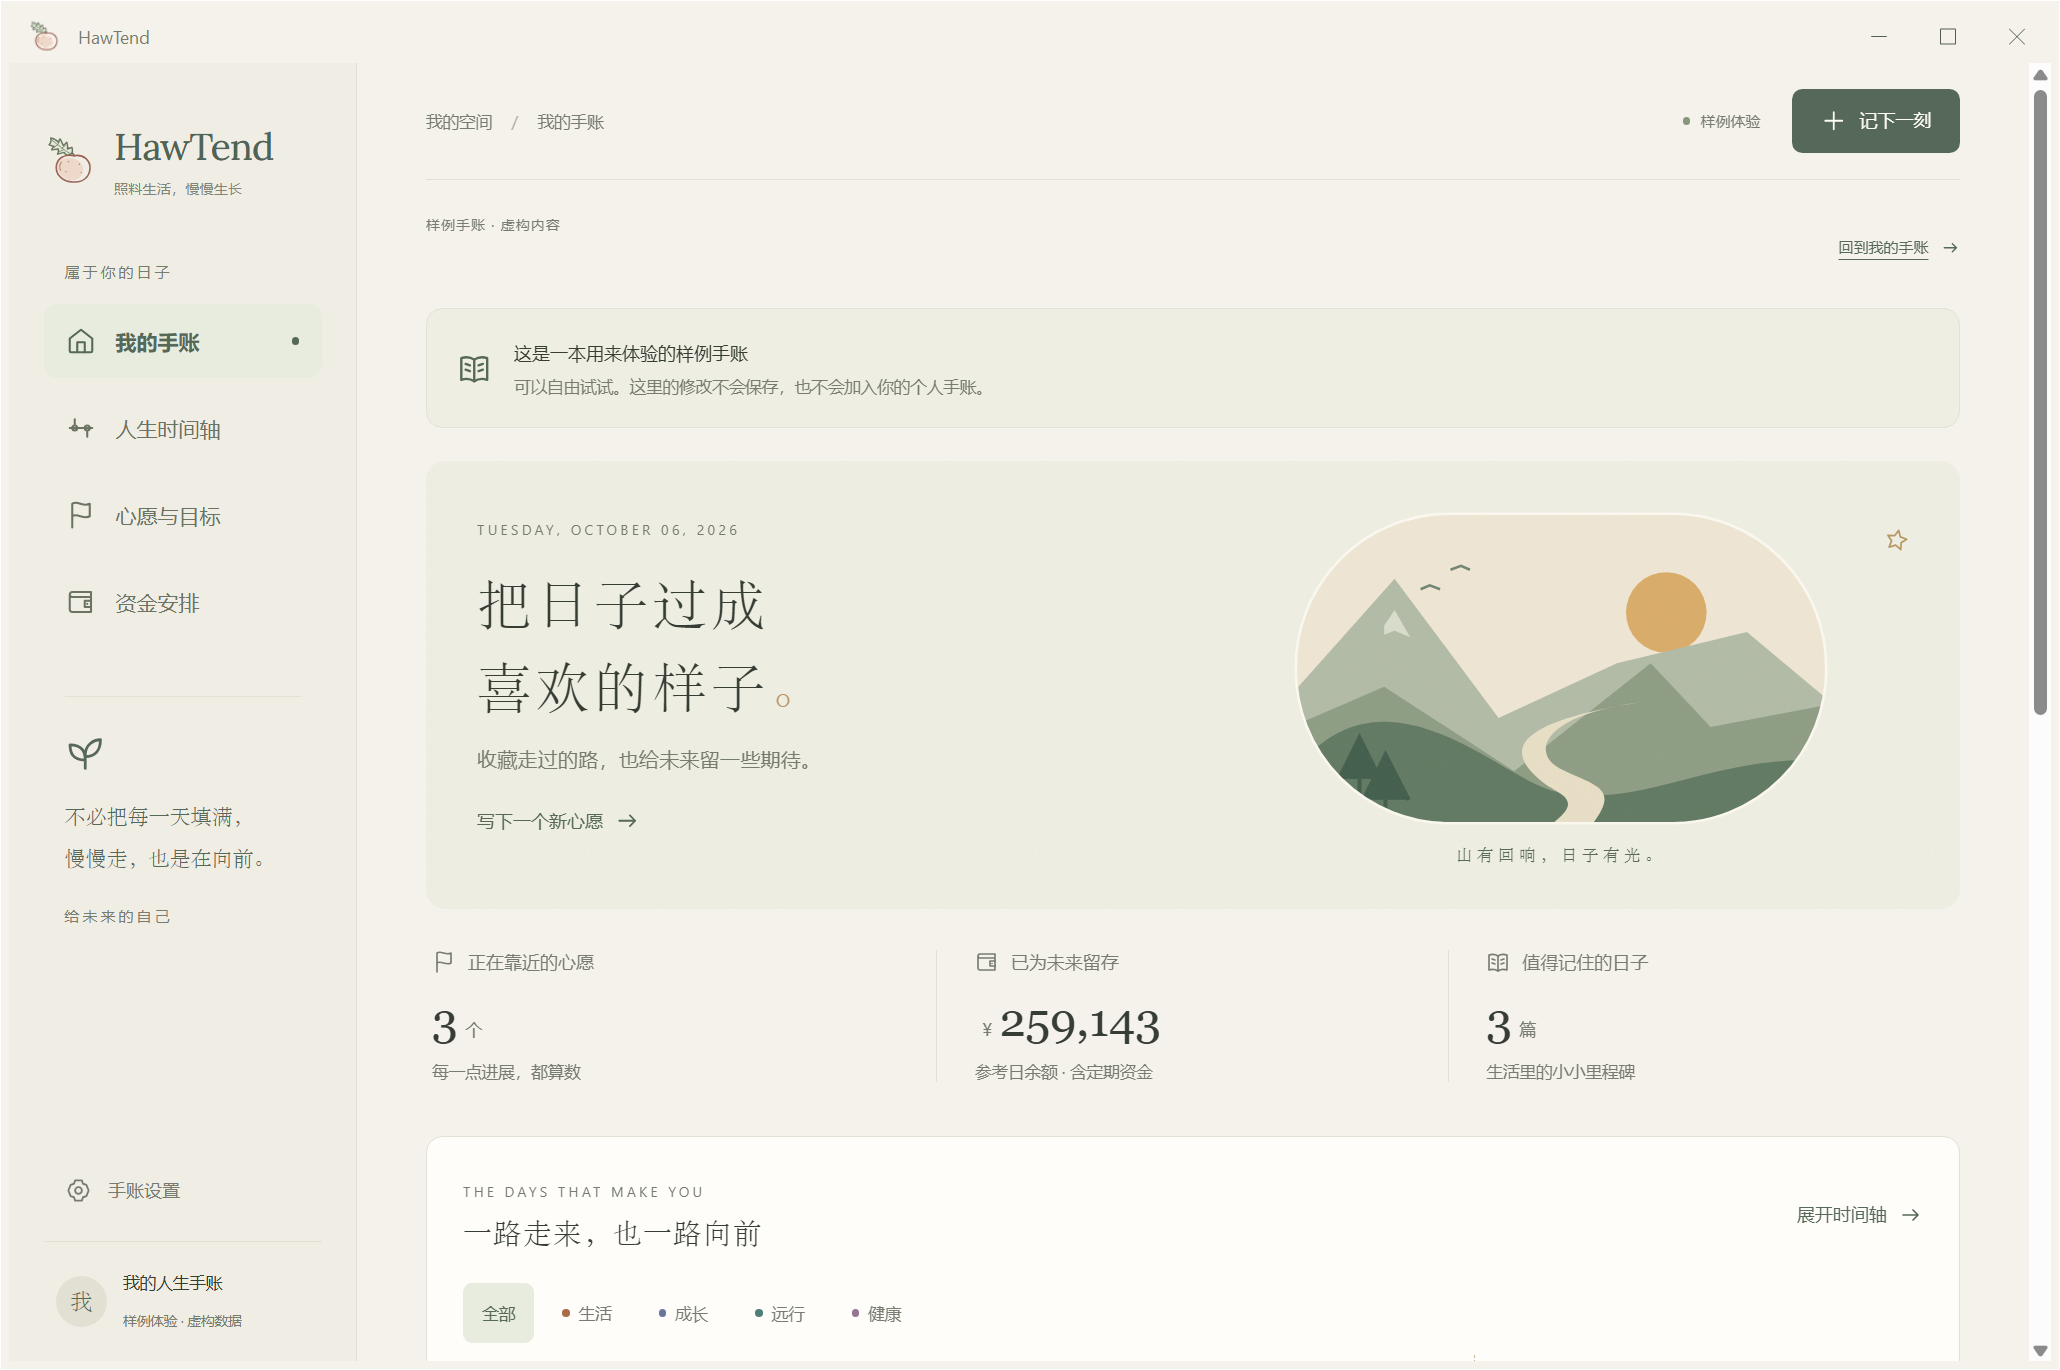
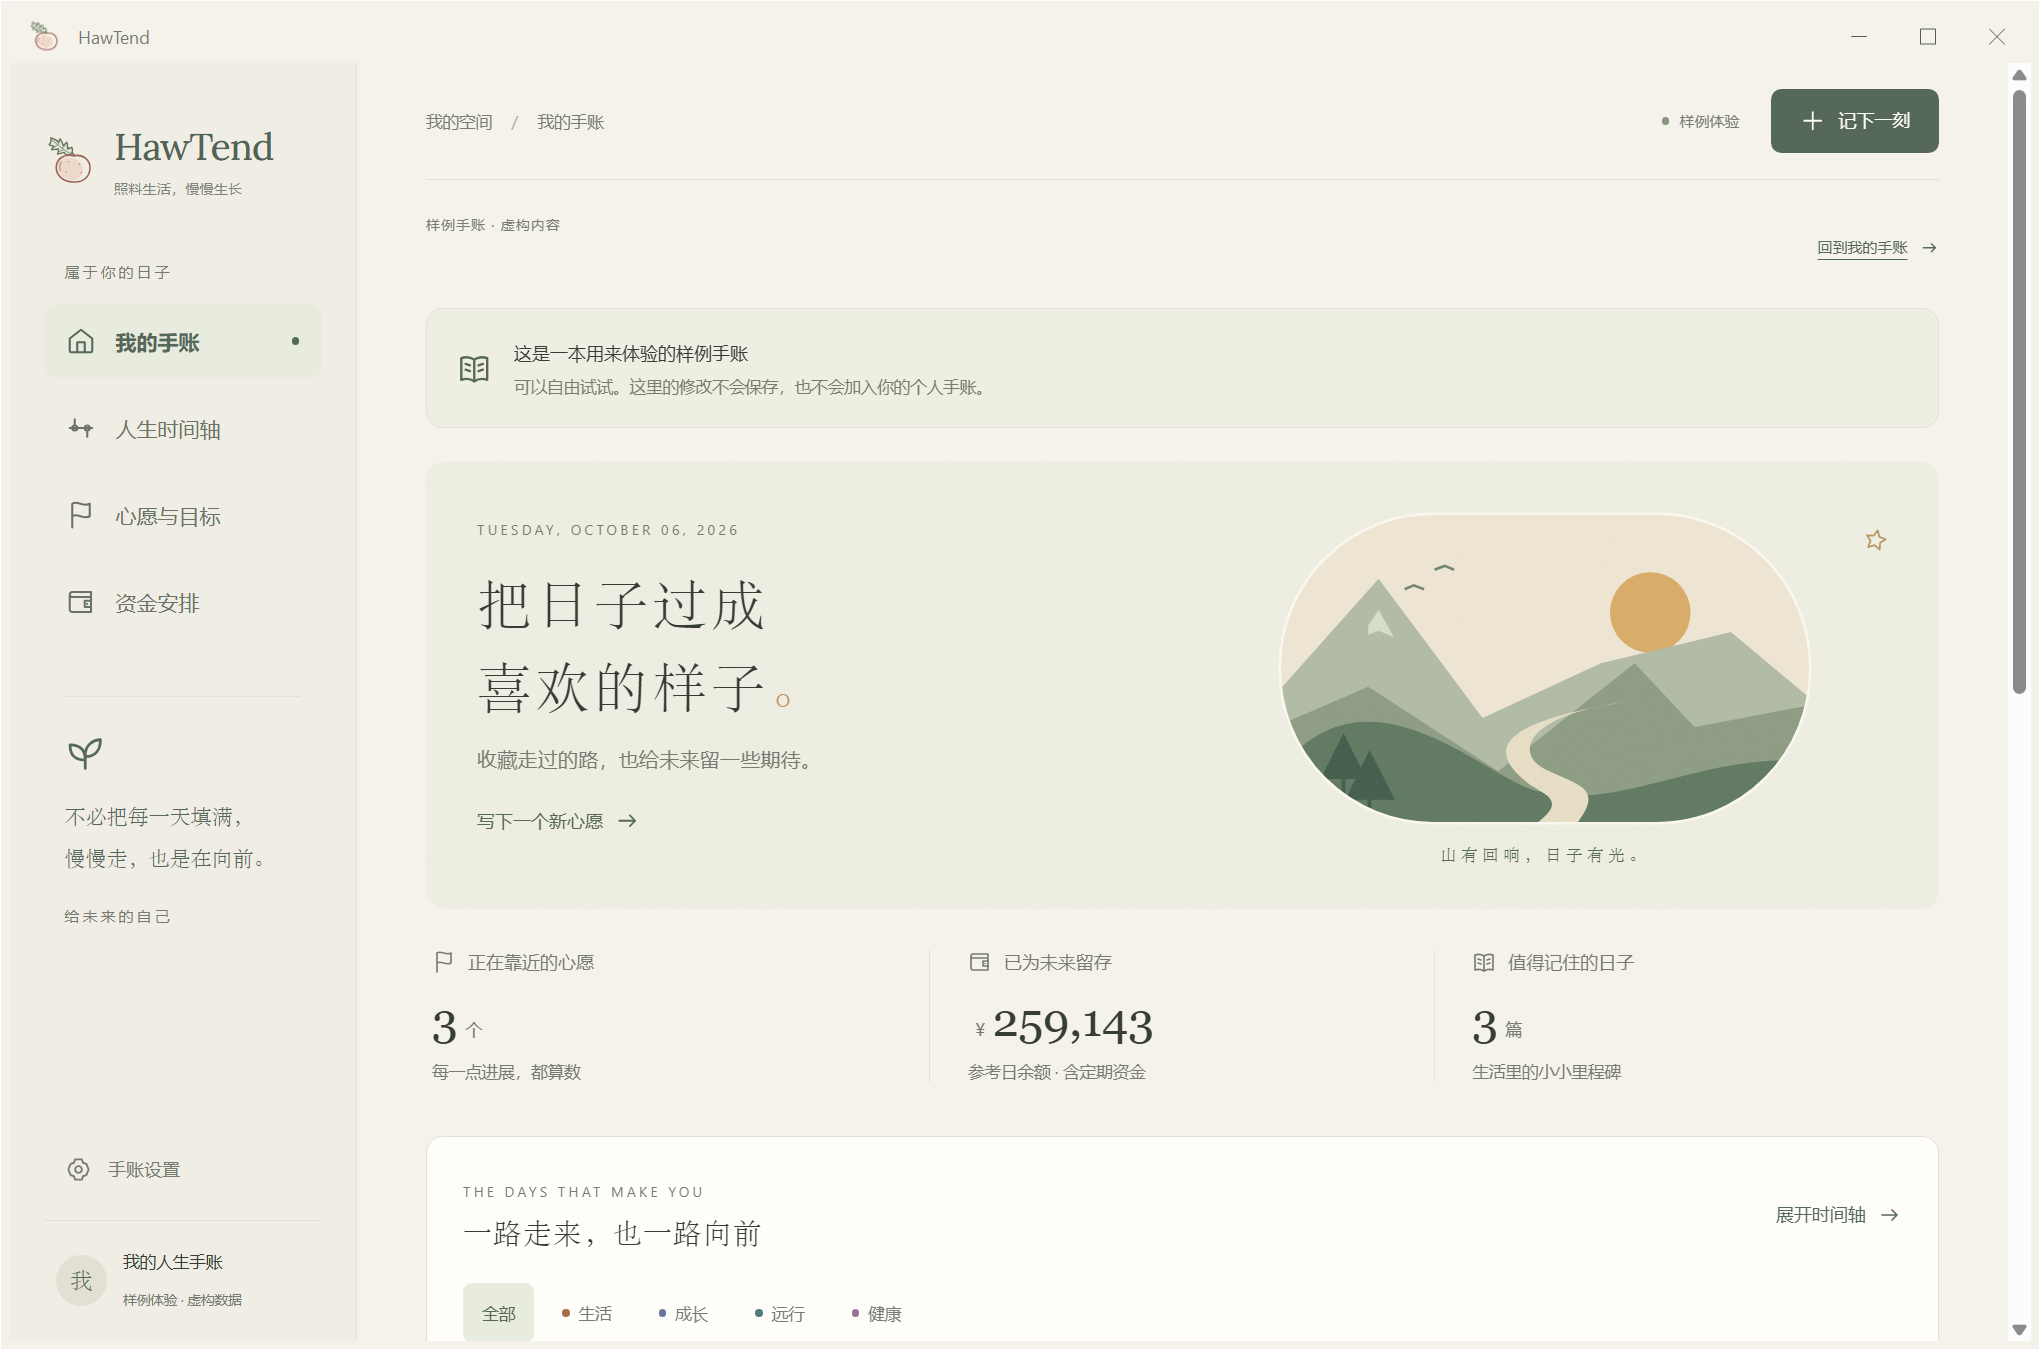
Preserve window bounds when reopening from minimize

diff --git a/windows/DesktopShell.cs b/windows/DesktopShell.cs
@@ -29,6 +29,7 @@ internal sealed class DesktopShell : Form
     private Rectangle normalBounds;
     private FormWindowState previousState = FormWindowState.Normal;
     private bool changingState;
+    private FormWindowState beforeMinimized = FormWindowState.Normal;
 
     internal DesktopShell(string address, string dataFolder, int debugPort, Action openLegacy)
     {
@@ -107,10 +108,16 @@ internal sealed class DesktopShell : Form
     }
     private void ChangeState(FormWindowState next)
     {
+        if (next == FormWindowState.Minimized) beforeMinimized = WindowState;
         if (WindowState == FormWindowState.Normal) normalBounds = Bounds;
         Rectangle restore = normalBounds; changingState = true;
         try { WindowState = next; if (next == FormWindowState.Normal && !restore.IsEmpty) Bounds = restore; }
         finally { changingState = false; previousState = WindowState; LayoutWindow(); }
+    }
+    internal void OpenOrFocus()
+    {
+        if (WindowState == FormWindowState.Minimized) ChangeState(beforeMinimized);
+        DesktopWindows.Focus(Handle);
     }
 
     private async System.Threading.Tasks.Task InitializeView()
@@ -225,6 +232,7 @@ internal sealed class DesktopShell : Form
             int command = m.WParam.ToInt32() & 0xfff0;
             if (command == 0xf030 || command == 0xf020 || command == 0xf120)
             {
+                if (command == 0xf020) beforeMinimized = WindowState;
                 if (WindowState == FormWindowState.Normal) normalBounds = Bounds;
                 Rectangle restore = normalBounds; changingState = true;
                 try { base.WndProc(ref m); if (WindowState == FormWindowState.Normal && !restore.IsEmpty) Bounds = restore; }

diff --git a/windows/HawTend.cs b/windows/HawTend.cs
@@ -167,7 +167,7 @@ internal sealed class DesktopContext : ApplicationContext
     internal void OpenOrFocus()
     {
         if (closing) return;
-        if (shell != null && !shell.IsDisposed) { DesktopWindows.Focus(shell.Handle); return; }
+        if (shell != null && !shell.IsDisposed) { shell.OpenOrFocus(); return; }
         shell = new DesktopShell(address, browserData, debugPort, OpenLegacy);
         shell.FormClosed += delegate { RequestExit(); };
         hasOpened = true; shell.Show();
